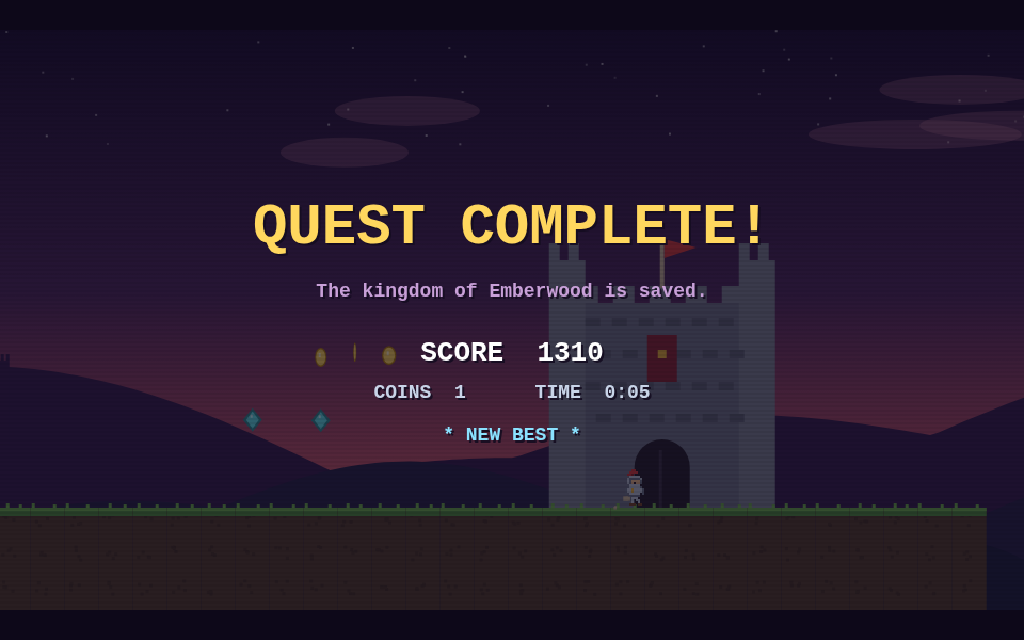
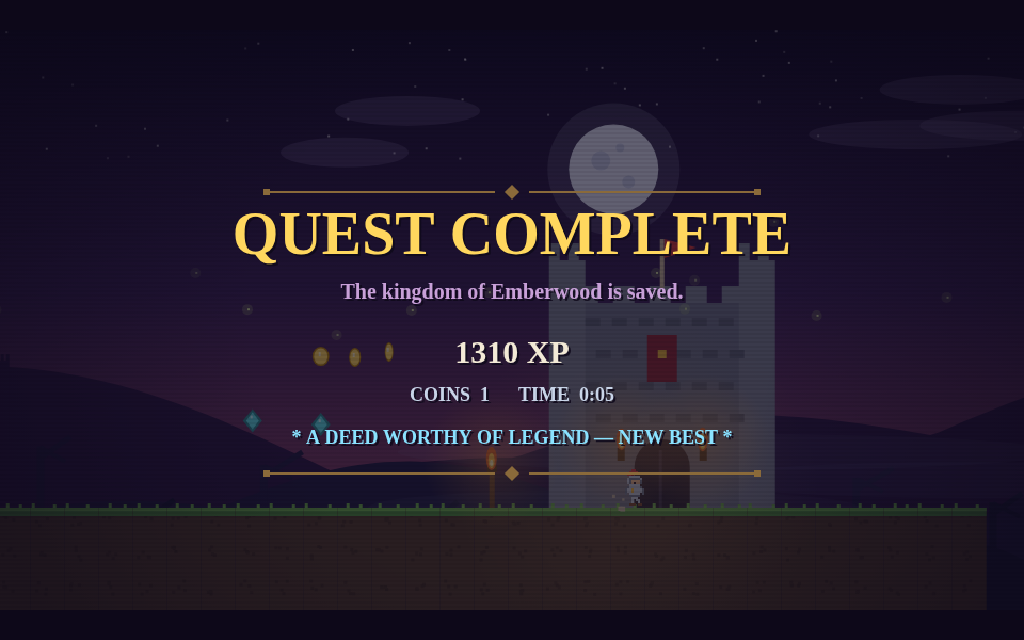
Fix softlock divets in tower screen; shift art toward D&D night fantasy
The two slots between the stone towers were 4-6 tiles deep with a max
jump of ~3.5 tiles, trapping players until death. Filled them into
climbable steps and verified escape with scripted held-jump playtests.

Visual pass: pale cratered moon replaces the sun, gnarled bare trees in
the parallax ridges, creeping ground mist, wandering fireflies,
flickering torches (new 'T' level tile plus castle door sconces), warm
light radius around the hero, vignette, medieval serif typography with
ornament dividers, and d20 rolls on sword kills (nat 20 crits for
double points). Screens now speak in XP and "roll for initiative".

Claude-Session: https://claude.ai/code/session_01P3Ad3VR57Lu1YLn9if5vC4

diff --git a/index.html b/index.html
@@ -43,6 +43,7 @@ addEventListener('resize', fitCanvas); fitCanvas();
 // LEVEL -- 8 hand-built screens, 30 columns each. '.'=air '#'=solid
 // '='=jump-through platform '^'=spikes 'c'=coin 'g'=gem 'h'=heart
 // 's'=slime 'b'=bat 'k'=skeleton 'P'=start '*'=checkpoint 'F'=castle
+// 'T'=torch (decoration)
 //----------------------------------------------------------------------
 const E10 = '..........';
 const SEGS = [
@@ -54,7 +55,7 @@ const SEGS = [
   E10+E10+E10,
   '.........='+'====......'+'..c.c.c...',
   '...P......'+E10+E10,
-  '..........'+'.........s'+'..........',
+  '.......T..'+'.........s'+'..........',
   '##########'+'##########'+'##########',
   '##########'+'##########'+'##########',
   '##########'+'##########'+'##########',
@@ -79,8 +80,8 @@ const SEGS = [
   '..........'+'cc...####.'+'.b........',
   '.........#'+'###..####.'+'..........',
   '....cc...#'+'###..####.'+'..........',
-  '...####..#'+'###..####.'+'..c.c.c...',
-  '...####..#'+'###..####.'+'..........',
+  '...####..#'+'#########.'+'..c.c.c...',
+  '...#######'+'#########.'+'..........',
   '##########'+'##########'+'##...#####',
   '##########'+'##########'+'##...#####',
   '##########'+'##########'+'##...#####',
@@ -93,7 +94,7 @@ const SEGS = [
   E10+E10+E10,
   '........=='+'===.....=='+'===.......',
   E10+E10+E10,
-  '....^^^^..'+'....^^^^..'+'.....s....',
+  '....^^^^..'+'.T..^^^^..'+'.....s....',
   '##########'+'##########'+'##########',
   '##########'+'##########'+'##########',
   '##########'+'##########'+'##########',
@@ -121,7 +122,7 @@ const SEGS = [
   E10+E10+E10,
   '..........'+'=====.....'+'..........',
   E10+E10+E10,
-  '....k...s.'+'.........k'+'.....s....',
+  '..T.k...s.'+'.........k'+'.....s.T..',
   '##########'+'##########'+'##########',
   '##########'+'##########'+'##########',
   '##########'+'##########'+'##########',
@@ -137,7 +138,7 @@ const SEGS = [
   '....cc....'+'..........'+'..........',
   '...====...'+'..........'+'..........',
   E10+E10+E10,
-  '.*........'+'.......^^.'+'..........',
+  '.*..T.....'+'.......^^.'+'..........',
   '##########'+'##########'+'...#######',
   '##########'+'##########'+'...#######',
   '##########'+'##########'+'...#######',
@@ -150,7 +151,7 @@ const SEGS = [
   E10+E10+E10,
   '........g.'+'g.........'+'..........',
   '..........'+'..........'+'F.........',
-  '....s....k'+'..........'+'..........',
+  '....s....k'+'.....T....'+'..........',
   '##########'+'##########'+'##########',
   '##########'+'##########'+'##########',
   '##########'+'##########'+'##########',
@@ -395,10 +396,11 @@ let score = 0, coins = 0, lives = 3, best = 0;
 let winTimer = 0, deadTimer = 0, paused = false;
 try { best = +(localStorage.getItem('ember_best') || 0); } catch (e) {}
 
-const enemySpawns = [], itemSpawns = [], checkpoints = [];
+const enemySpawns = [], itemSpawns = [], checkpoints = [], torches = [];
 for (let y = 0; y < LH; y++) for (let x = 0; x < LW; x++) {
   const ch = grid[y][x], wx = x * TS, wy = y * TS;
-  if ('csgbhkP*F'.includes(ch)) grid[y][x] = '.';
+  if ('csgbhkP*FT'.includes(ch)) grid[y][x] = '.';
+  if (ch === 'T') torches.push({x: wx + 16, y: wy + TS});
   if (ch === 'P') spawn = {x: wx + 5, y: wy - 4};
   else if (ch === 'F') goal = {x: wx, y: wy};
   else if (ch === '*') checkpoints.push({x: wx, y: wy, on: false});
@@ -560,6 +562,22 @@ function swordBox(){
   if (p.atk < 3 || p.atk > 12) return null;
   return {x: p.dir > 0 ? p.x + p.w - 4 : p.x - 28, y: p.y + 6, w: 32, h: 22};
 }
+function killEnemy(e, viaSword){
+  e.dead = true;
+  let pts = e.kind === 's' ? 50 : e.kind === 'b' ? 75 : 100;
+  if (viaSword) {
+    const roll = 1 + (Math.random() * 20 | 0);
+    if (roll === 20) {
+      pts *= 2;
+      popup(e.x + e.w / 2, e.y - 18, 'NAT 20! CRITICAL', '#8ae2ff');
+      burst(e.x + e.w / 2, e.y + e.h / 2, '#8ae2ff', 10);
+      cam.shake = 5;
+    } else popup(e.x + e.w / 2, e.y - 18, 'd20: ' + roll, '#9aa5c8');
+  }
+  addScore(pts, e.x + e.w / 2, e.y);
+  burst(e.x + e.w / 2, e.y + e.h / 2, e.kind === 's' ? '#7ed957' : e.kind === 'b' ? '#8a5cd6' : '#e8e4da', 12);
+  AU.stomp();
+}
 function updateEnemies(){
   const p = player, sb = swordBox();
   for (const e of enemies) {
@@ -575,22 +593,14 @@ function updateEnemies(){
       if (moveX(e, e.vx) || (onG && !groundAhead(e))) { e.dir *= -1; e.vx = Math.abs(e.vx) * e.dir; }
     }
     if (p.dead) continue;
-    // sword hit
+    // sword hit -- roll a d20, nat 20 crits for double points
     if (sb && overlap(sb, e)) {
-      e.dead = true;
-      const pts = e.kind === 's' ? 50 : e.kind === 'b' ? 75 : 100;
-      addScore(pts, e.x + e.w / 2, e.y);
-      burst(e.x + e.w / 2, e.y + e.h / 2, e.kind === 's' ? '#7ed957' : e.kind === 'b' ? '#8a5cd6' : '#e8e4da', 12);
-      AU.stomp(); continue;
+      killEnemy(e, true); continue;
     }
     // touch
     if (overlap(p, e)) {
       if (p.vy > 1 && p.y + p.h - e.y < 16) { // stomp
-        e.dead = true; p.vy = -8.5;
-        const pts = e.kind === 's' ? 50 : e.kind === 'b' ? 75 : 100;
-        addScore(pts, e.x + e.w / 2, e.y);
-        burst(e.x + e.w / 2, e.y + e.h / 2, e.kind === 's' ? '#7ed957' : e.kind === 'b' ? '#8a5cd6' : '#e8e4da', 12);
-        AU.stomp();
+        killEnemy(e, false); p.vy = -8.5;
       } else hurtPlayer(e.x + e.w / 2);
     }
   }
@@ -637,23 +647,28 @@ const hash = (x, y) => { let h = (x * 374761393 + y * 668265263) | 0; h = (h ^ (
 
 function drawSky(){
   const g = ctx.createLinearGradient(0, 0, 0, VH);
-  g.addColorStop(0, '#1a1033'); g.addColorStop(0.45, '#4d2a5e');
-  g.addColorStop(0.75, '#c2566b'); g.addColorStop(1, '#f0a05a');
+  g.addColorStop(0, '#0e0b26'); g.addColorStop(0.45, '#3a2358');
+  g.addColorStop(0.78, '#7e4066'); g.addColorStop(1, '#c76b4a');
   ctx.fillStyle = g; ctx.fillRect(0, 0, VW, VH);
   // stars
   ctx.fillStyle = 'rgba(255,255,255,.7)';
-  for (let i = 0; i < 40; i++) {
-    const sx = (hash(i, 7) * VW * 2 - cam.x * 0.05) % VW, sy = hash(i, 13) * VH * 0.4;
+  for (let i = 0; i < 52; i++) {
+    const sx = (hash(i, 7) * VW * 2 - cam.x * 0.05) % VW, sy = hash(i, 13) * VH * 0.45;
     const tw = 0.4 + 0.6 * Math.abs(Math.sin(frame * 0.03 + i));
     ctx.globalAlpha = tw * 0.8;
     ctx.fillRect((sx + VW) % VW, sy, 2, 2);
   }
   ctx.globalAlpha = 1;
-  // low sun
-  ctx.fillStyle = '#ffdca8';
-  ctx.beginPath(); ctx.arc(VW * 0.72, VH * 0.78, 46, 0, 7); ctx.fill();
-  ctx.fillStyle = 'rgba(255,220,168,.25)';
-  ctx.beginPath(); ctx.arc(VW * 0.72, VH * 0.78, 70, 0, 7); ctx.fill();
+  // pale moon with craters
+  const mx = VW * 0.74 - cam.x * 0.02 % VW, my = VH * 0.24;
+  ctx.fillStyle = 'rgba(226,232,255,.16)';
+  ctx.beginPath(); ctx.arc(mx, my, 62, 0, 7); ctx.fill();
+  ctx.fillStyle = '#dfe4f5';
+  ctx.beginPath(); ctx.arc(mx, my, 42, 0, 7); ctx.fill();
+  ctx.fillStyle = '#c3cae6';
+  ctx.beginPath(); ctx.arc(mx - 12, my - 8, 9, 0, 7); ctx.fill();
+  ctx.beginPath(); ctx.arc(mx + 14, my + 12, 6, 0, 7); ctx.fill();
+  ctx.beginPath(); ctx.arc(mx + 6, my - 20, 4, 0, 7); ctx.fill();
 }
 function ridge(par, base, amp1, f1, amp2, f2, color, castle){
   ctx.fillStyle = color;
@@ -676,17 +691,48 @@ function ridge(par, base, amp1, f1, amp2, f2, color, castle){
     }
   }
 }
+function gnarledTrees(par, base, color){
+  ctx.fillStyle = color;
+  const span = 260;
+  for (let i = -1; i < VW / span + 2; i++) {
+    const wx = (Math.floor((cam.x * par) / span) + i) * span;
+    const seed = Math.floor(wx / span);
+    const sx = wx - cam.x * par + hash(seed, 21) * 120;
+    const h = 60 + hash(seed, 5) * 70, ty = base - h;
+    ctx.fillRect(sx, ty, 7, h);                              // trunk
+    const lean = hash(seed, 8) > 0.5 ? 1 : -1;
+    ctx.save(); ctx.translate(sx + 3, ty + 12);
+    ctx.rotate(lean * (0.5 + hash(seed, 11) * 0.4));
+    ctx.fillRect(0, -3, 34 + hash(seed, 4) * 22, 5);          // low bough
+    ctx.restore();
+    ctx.save(); ctx.translate(sx + 3, ty + 2);
+    ctx.rotate(-lean * (0.35 + hash(seed, 14) * 0.4));
+    ctx.fillRect(0, -3, 26 + hash(seed, 6) * 18, 4);          // high bough
+    ctx.restore();
+  }
+}
 function drawParallax(){
-  ridge(0.15, VH * 0.82, 90, 0.0021, 55, 0.0056, '#35204f', true);
-  ridge(0.35, VH * 0.9, 55, 0.004, 30, 0.009, '#26244a');
-  ridge(0.6, VH * 0.99, 40, 0.008, 22, 0.017, '#1c2140');
+  ridge(0.15, VH * 0.82, 90, 0.0021, 55, 0.0056, '#2c1b46', true);
+  ridge(0.35, VH * 0.9, 55, 0.004, 30, 0.009, '#221f44');
+  gnarledTrees(0.35, VH * 0.9 - 8, '#221f44');
+  ridge(0.6, VH * 0.99, 40, 0.008, 22, 0.017, '#181c38');
+  gnarledTrees(0.6, VH * 0.99 - 6, '#181c38');
   // drifting clouds
-  ctx.fillStyle = 'rgba(214,140,170,.28)';
+  ctx.fillStyle = 'rgba(168,150,205,.22)';
   for (let i = 0; i < 6; i++) {
     const cx = ((hash(i, 3) * 2200 + frame * (0.12 + i * 0.03) - cam.x * 0.25) % (VW + 300)) - 150;
     const cy = 40 + hash(i, 9) * 150;
     ctx.beginPath();
     ctx.ellipse((cx + VW + 300) % (VW + 300) - 150, cy, 60 + i * 8, 14, 0, 0, 7);
+    ctx.fill();
+  }
+  // low creeping mist
+  for (let i = 0; i < 4; i++) {
+    ctx.fillStyle = 'rgba(150,160,210,' + (0.05 + i * 0.012) + ')';
+    const mx = ((hash(i, 17) * 1800 + frame * (0.2 + i * 0.06) - cam.x * (0.5 + i * 0.1)) % (VW + 500)) - 250;
+    const my = VH - 70 - i * 26;
+    ctx.beginPath();
+    ctx.ellipse((mx + VW + 500) % (VW + 500) - 250, my, 190 + i * 40, 17, 0, 0, 7);
     ctx.fill();
   }
 }
@@ -745,6 +791,10 @@ function drawCastle(){
   ctx.fillRect(gx - 10, gy + 26, 52, 38);
   ctx.fillStyle = '#3a3348';
   ctx.fillRect(gx + 13, gy + 10, 3, 54);
+  // door torches
+  ctx.fillStyle = '#3d2a17';
+  ctx.fillRect(gx - 26, gy + 8, 7, 12); ctx.fillRect(gx + 51, gy + 8, 7, 12);
+  torchFlame(gx - 22, gy + 2, 1); torchFlame(gx + 54, gy + 2, 2);
   // banner + waving flag
   ctx.fillStyle = '#8a2635'; ctx.fillRect(x + 66, topY + 30, 28, 44);
   ctx.fillStyle = '#e8b23a'; ctx.fillRect(x + 76, topY + 44, 8, 8);
@@ -754,6 +804,29 @@ function drawCastle(){
   const w = Math.sin(frame * 0.1) * 4;
   ctx.moveTo(x + 82, topY - 60); ctx.lineTo(x + 116 + w, topY - 52); ctx.lineTo(x + 82, topY - 42);
   ctx.fill();
+}
+function torchFlame(sx, sy, seed){
+  const fl = Math.sin(frame * 0.31 + seed * 7) * 2 + Math.sin(frame * 0.13 + seed * 3) * 1.5;
+  const glow = ctx.createRadialGradient(sx, sy, 4, sx, sy, 64);
+  glow.addColorStop(0, 'rgba(255,170,70,.30)');
+  glow.addColorStop(1, 'rgba(255,170,70,0)');
+  ctx.fillStyle = glow;
+  ctx.fillRect(sx - 64, sy - 64, 128, 128);
+  ctx.fillStyle = '#e8722c';
+  ctx.beginPath(); ctx.ellipse(sx, sy - 2, 5, 9 + fl, 0, 0, 7); ctx.fill();
+  ctx.fillStyle = '#ffc24a';
+  ctx.beginPath(); ctx.ellipse(sx, sy, 3, 6 + fl * 0.6, 0, 0, 7); ctx.fill();
+  ctx.fillStyle = '#fff2b0';
+  ctx.beginPath(); ctx.ellipse(sx, sy + 2, 1.6, 3, 0, 0, 7); ctx.fill();
+}
+function drawTorches(){
+  for (const t of torches) {
+    const sx = t.x - cam.x;
+    if (sx < -80 || sx > VW + 80) continue;
+    ctx.fillStyle = '#5e4126'; ctx.fillRect(sx - 2, t.y - 36, 5, 36);
+    ctx.fillStyle = '#3d2a17'; ctx.fillRect(sx - 4, t.y - 40, 9, 7);
+    torchFlame(sx, t.y - 44, t.x);
+  }
 }
 function drawCheckpoints(){
   for (const c of checkpoints) {
@@ -849,13 +922,22 @@ function drawFx(){
   }
   ctx.globalAlpha = 1;
 }
+const FONT = "'Luminari','Palatino Linotype','Book Antiqua',Palatino,Georgia,serif";
 function text(str, x, y, size, color, align){
   ctx.textAlign = align || 'center';
-  ctx.font = 'bold ' + size + "px 'Courier New',monospace";
-  ctx.fillStyle = 'rgba(20,12,32,.9)';
+  ctx.font = 'bold ' + size + 'px ' + FONT;
+  ctx.fillStyle = 'rgba(16,10,28,.9)';
   ctx.fillText(str, x + 2, y + 2);
   ctx.fillStyle = color;
   ctx.fillText(str, x, y);
+}
+function ornament(x, y, w, color){ // ~~~<>~~~ divider
+  ctx.strokeStyle = color; ctx.fillStyle = color; ctx.lineWidth = 2;
+  ctx.beginPath(); ctx.moveTo(x - w / 2, y); ctx.lineTo(x - 16, y); ctx.stroke();
+  ctx.beginPath(); ctx.moveTo(x + 16, y); ctx.lineTo(x + w / 2, y); ctx.stroke();
+  ctx.save(); ctx.translate(x, y); ctx.rotate(Math.PI / 4);
+  ctx.fillRect(-5, -5, 10, 10); ctx.restore();
+  ctx.fillRect(x - w / 2 - 3, y - 3, 6, 6); ctx.fillRect(x + w / 2 - 3, y - 3, 6, 6);
 }
 function drawHUD(){
   for (let i = 0; i < 3; i++) {
@@ -875,12 +957,38 @@ function scanlines(){
   ctx.fillStyle = 'rgba(0,0,0,.07)';
   for (let y = 0; y < VH; y += 4) ctx.fillRect(0, y, VW, 2);
 }
+function fireflies(){
+  for (let i = 0; i < 14; i++) {
+    const t = frame * 0.008 + i * 9.3;
+    const fx = ((hash(i, 31) * LW * TS + Math.sin(t) * 90 - cam.x * 0.9) % (VW + 100)) - 50;
+    const fy = VH * 0.35 + hash(i, 37) * VH * 0.5 + Math.sin(t * 2.3) * 30;
+    const a = 0.25 + 0.55 * Math.abs(Math.sin(frame * 0.05 + i * 2.1));
+    ctx.fillStyle = 'rgba(220,255,140,' + (a * 0.25) + ')';
+    ctx.beginPath(); ctx.arc((fx + VW + 100) % (VW + 100) - 50, fy, 5, 0, 7); ctx.fill();
+    ctx.fillStyle = 'rgba(235,255,170,' + a + ')';
+    ctx.fillRect((fx + VW + 100) % (VW + 100) - 50, fy - 1, 2, 2);
+  }
+}
+function heroLight(){
+  const px = player.x + player.w / 2 - cam.x, py = player.y + player.h / 2;
+  const g = ctx.createRadialGradient(px, py, 30, px, py, 170);
+  g.addColorStop(0, 'rgba(255,190,110,.10)');
+  g.addColorStop(1, 'rgba(255,190,110,0)');
+  ctx.fillStyle = g; ctx.fillRect(px - 170, py - 170, 340, 340);
+}
+function vignette(){
+  const g = ctx.createRadialGradient(VW / 2, VH / 2, VH * 0.45, VW / 2, VH / 2, VH * 0.95);
+  g.addColorStop(0, 'rgba(10,6,22,0)');
+  g.addColorStop(1, 'rgba(10,6,22,.42)');
+  ctx.fillStyle = g; ctx.fillRect(0, 0, VW, VH);
+}
 function drawWorld(){
   ctx.save();
   if (cam.shake > 0) ctx.translate((Math.random() - 0.5) * cam.shake, (Math.random() - 0.5) * cam.shake);
-  drawSky(); drawParallax(); drawCastle(); drawTiles(); drawCheckpoints();
-  drawItems(); drawEnemies(); drawPlayer(); drawFx();
+  drawSky(); drawParallax(); drawCastle(); drawTiles(); drawTorches(); drawCheckpoints();
+  drawItems(); drawEnemies(); drawPlayer(); heroLight(); drawFx(); fireflies();
   ctx.restore();
+  vignette();
 }
 
 //----------------------------------------------------------------------
@@ -892,13 +1000,15 @@ function titleScreen(){
   drawTiles(); drawCastle(); scanlines();
   ctx.fillStyle = 'rgba(13,8,25,.45)'; ctx.fillRect(0, 0, VW, VH);
   const bob = Math.sin(frame * 0.05) * 6;
-  text('EMBERWOOD', VW / 2, 170 + bob, 78, '#ffb347');
-  text('QUEST', VW / 2, 244 + bob, 78, '#ffd75e');
-  text('~ a tale of the fallen kingdom ~', VW / 2, 288 + bob, 18, '#c8a0d8');
-  drawSprite(SPR.heroIdle, VW / 2 - 14, 330 + Math.sin(frame * 0.08) * 4, false);
-  if ((frame / 30 | 0) % 2) text('PRESS ENTER TO BEGIN', VW / 2, 430, 24, '#ffffff');
-  text('ARROWS / WASD move    Z / SPACE jump    X / J sword', VW / 2, 480, 15, '#9aa5c8');
-  text('M music    P pause' + (best ? '    BEST ' + best : ''), VW / 2, 505, 15, '#9aa5c8');
+  ornament(VW / 2, 108 + bob, 420, '#8a6a3a');
+  text('EMBERWOOD', VW / 2, 178 + bob, 82, '#e8b23a');
+  text('QUEST', VW / 2, 250 + bob, 82, '#ffd75e');
+  text('A Tale of the Fallen Kingdom', VW / 2, 292 + bob, 20, '#c8a0d8');
+  ornament(VW / 2, 316 + bob, 420, '#8a6a3a');
+  drawSprite(SPR.heroIdle, VW / 2 - 14, 340 + Math.sin(frame * 0.08) * 4, false);
+  if ((frame / 30 | 0) % 2) text('ROLL FOR INITIATIVE — PRESS ENTER', VW / 2, 432, 24, '#f3ead6');
+  text('ARROWS / WASD move      Z / SPACE jump      X / J sword', VW / 2, 480, 16, '#9aa5c8');
+  text('M music      P pause' + (best ? '      BEST ' + best : ''), VW / 2, 505, 16, '#9aa5c8');
 }
 function winScreen(){
   drawWorld(); scanlines();
@@ -906,22 +1016,24 @@ function winScreen(){
   ctx.fillStyle = 'rgba(13,8,25,' + Math.min(0.6, winTimer / 60) + ')';
   ctx.fillRect(0, 0, VW, VH);
   if (winTimer > 30) {
-    text('QUEST COMPLETE!', VW / 2, 200, 54, '#ffd75e');
-    text('The kingdom of Emberwood is saved.', VW / 2, 250, 18, '#c8a0d8');
+    ornament(VW / 2, 152, 460, '#8a6a3a');
+    text('QUEST COMPLETE', VW / 2, 210, 56, '#ffd75e');
+    text('The kingdom of Emberwood is saved.', VW / 2, 252, 20, '#c8a0d8');
     const secs = playTime / 60 | 0;
-    text('SCORE  ' + score, VW / 2, 310, 26, '#ffffff');
-    text('COINS  ' + coins + '      TIME  ' + (secs / 60 | 0) + ':' + ('0' + secs % 60).slice(-2), VW / 2, 345, 18, '#c8d4e8');
-    if (score >= best) text('* NEW BEST *', VW / 2, 385, 18, '#8ae2ff');
-    if ((frame / 30 | 0) % 2) text('PRESS ENTER TO PLAY AGAIN', VW / 2, 440, 20, '#ffffff');
+    text(score + ' XP', VW / 2, 312, 30, '#f3ead6');
+    text('COINS  ' + coins + '      TIME  ' + (secs / 60 | 0) + ':' + ('0' + secs % 60).slice(-2), VW / 2, 348, 18, '#c8d4e8');
+    if (score >= best) text('* A DEED WORTHY OF LEGEND — NEW BEST *', VW / 2, 388, 18, '#8ae2ff');
+    ornament(VW / 2, 416, 460, '#8a6a3a');
+    if ((frame / 30 | 0) % 2) text('PRESS ENTER TO PLAY AGAIN', VW / 2, 456, 20, '#f3ead6');
   }
 }
 function gameoverScreen(){
   drawWorld(); scanlines();
   ctx.fillStyle = 'rgba(13,8,25,.65)'; ctx.fillRect(0, 0, VW, VH);
-  text('GAME OVER', VW / 2, 230, 64, '#d43d3d');
-  text('The realm falls into shadow...', VW / 2, 280, 18, '#9aa5c8');
-  text('SCORE  ' + score + (best ? '      BEST  ' + best : ''), VW / 2, 330, 22, '#ffffff');
-  if ((frame / 30 | 0) % 2) text('PRESS ENTER TO TRY AGAIN', VW / 2, 400, 20, '#ffffff');
+  text('YOUR HERO HAS FALLEN', VW / 2, 230, 54, '#d43d3d');
+  text('The realm slips into shadow...', VW / 2, 280, 20, '#9aa5c8');
+  text(score + ' XP' + (best ? '      BEST  ' + best : ''), VW / 2, 330, 24, '#f3ead6');
+  if ((frame / 30 | 0) % 2) text('PRESS ENTER TO ROLL A NEW HERO', VW / 2, 400, 20, '#f3ead6');
 }
 
 //----------------------------------------------------------------------
